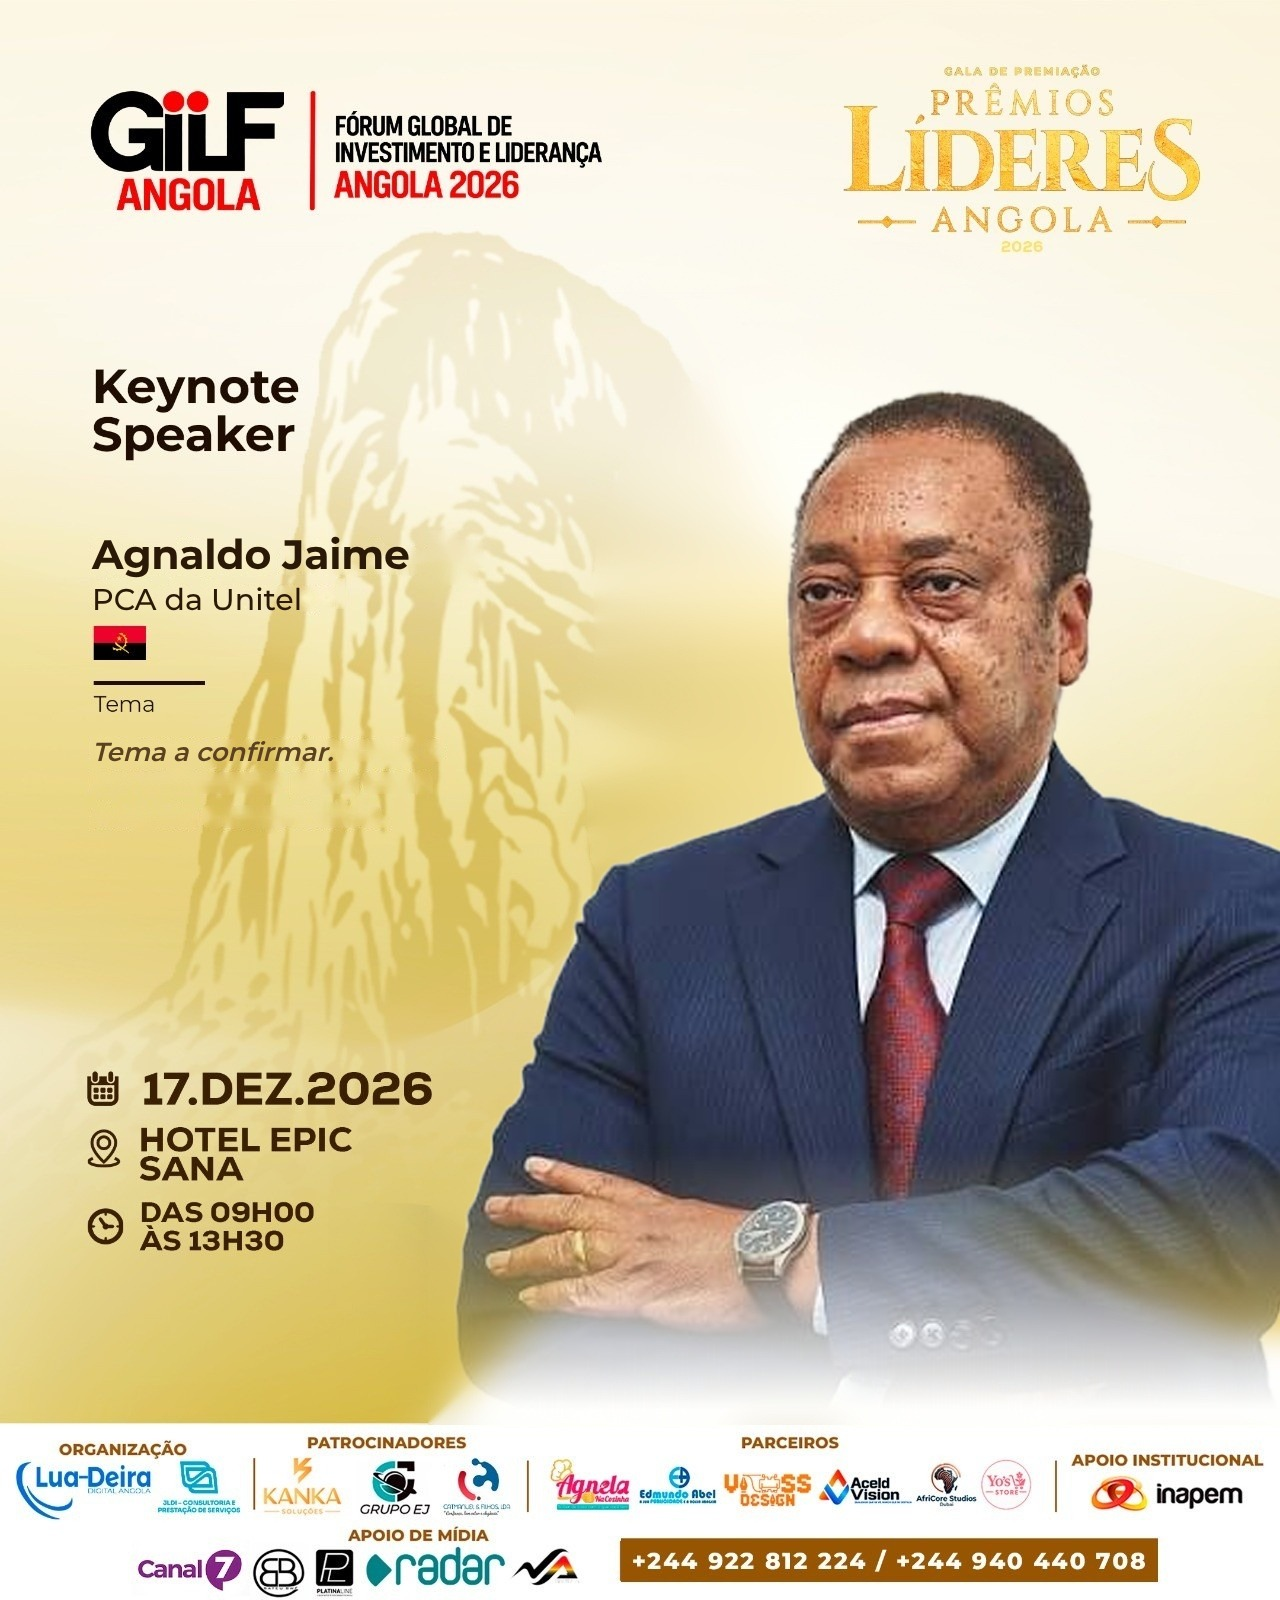
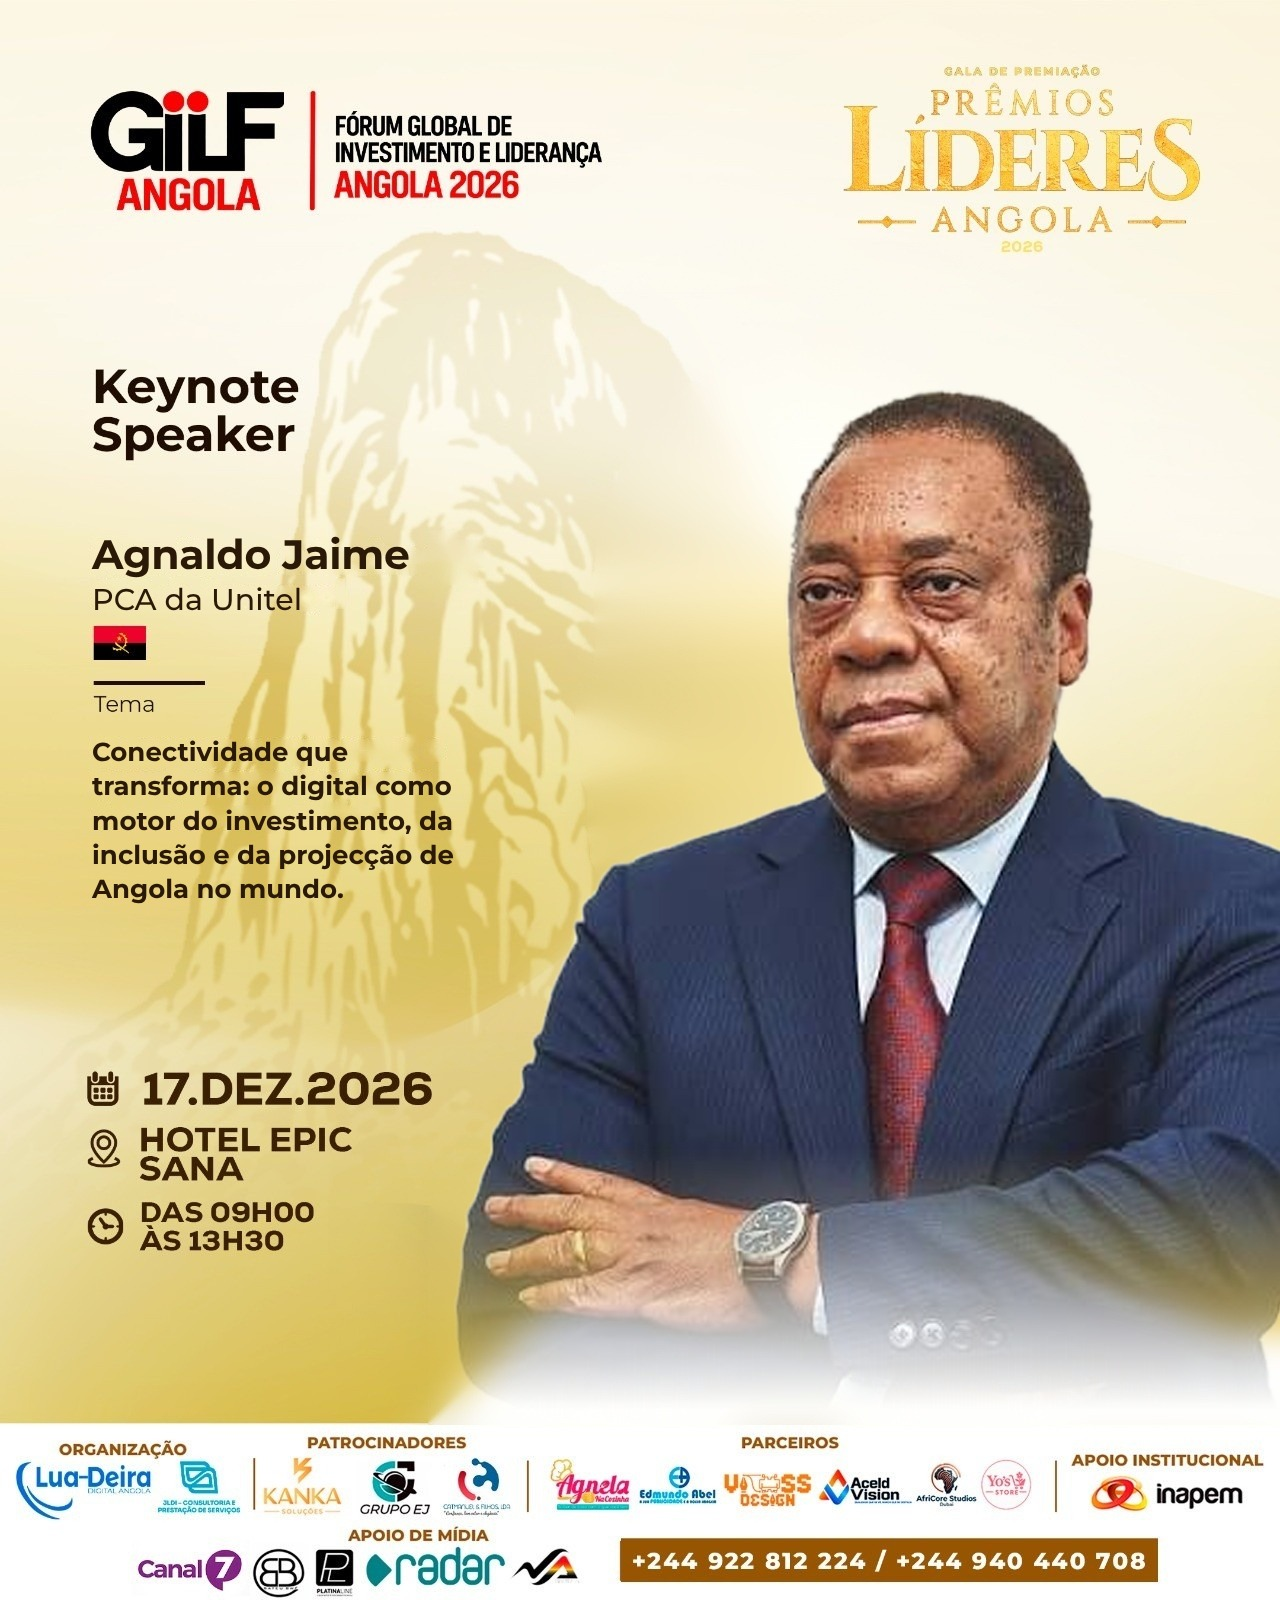
Tema da keynote de Agnaldo Jaime: Conectividade que transforma
Claude-Session: https://claude.ai/code/session_01P9CTcP8St7hMUZkcGog4iA

Changed region(s): [[0.0625, 0.4688, 0.3438, 0.5625]]

diff --git a/assets/dados.js b/assets/dados.js
@@ -96,7 +96,7 @@ window.GILF = {
       "cargo": "PCA",
       "organizacao": "Unitel",
       "papel": "keynote",
-      "tema": "",
+      "tema": "Conectividade que transforma: o digital como motor do investimento, da inclusão e da projecção de Angola no mundo.",
       "pais": "Angola",
       "foto": "assets/img/pessoas/agnaldo-jaime.jpg"
     },
@@ -751,8 +751,8 @@ window.GILF = {
         "fim": "09:12",
         "tipo": "keynote",
         "numero": "",
-        "titulo": "Keynote Unitel",
-        "subtitulo": "Tema a confirmar",
+        "titulo": "Conectividade que transforma",
+        "subtitulo": "O digital como motor do investimento, da inclusão e da projecção de Angola no mundo",
         "descricao": "",
         "moderador": "",
         "oradores": [
